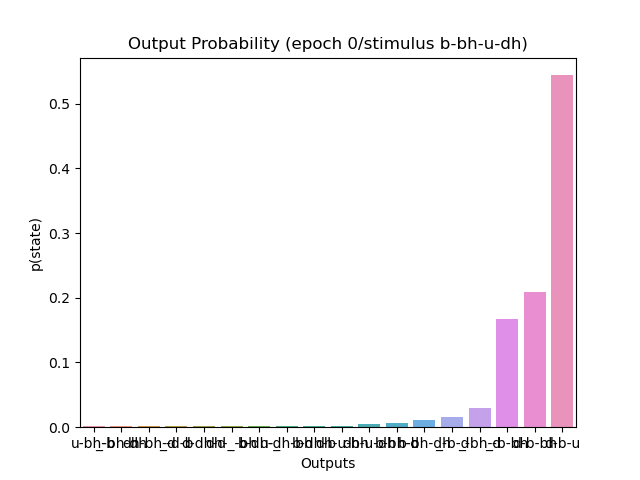
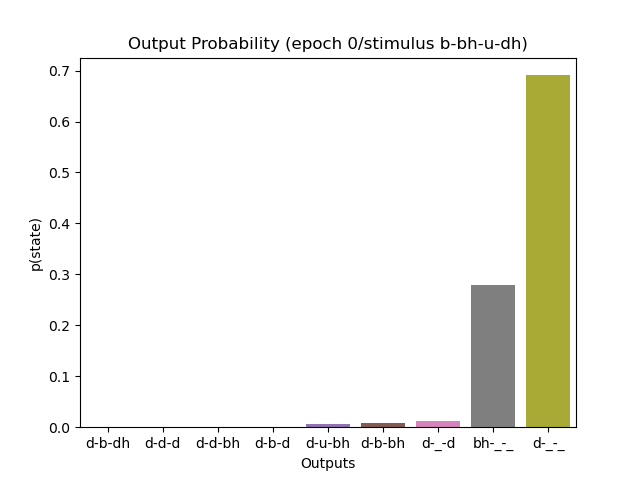
states initialization re-ordered

diff --git a/src/gsc/gsc_network.py b/src/gsc/gsc_network.py
@@ -80,7 +80,7 @@ class Net(object):
         self.settings['T_init'] = 1e-6
         self.settings["TMin"] = 0
         self.settings["TdecayRate"] = 0.05
-        self.settings["lambdaInit"] = 1
+        self.settings["lambdaInit"] = 0.011387
         self.settings["lambdaMin"] = 0.01
         self.settings["lambdaDecayRate"] = 0.60
         self.settings["maxSteps"] = 300000
@@ -111,12 +111,12 @@ class Net(object):
         """
         self.vars = dict()
         # Temperature params
-        self.vars['T_init'] = 1e-4
+        self.vars['T_init'] = -1
         self.vars['T_min'] = 0.0
-        self.vars['T_decay_rate'] = 1e-2
+        self.vars['T_decay_rate'] = 0.05
         self.vars['lambda_min'] = 0.0001
         # Bowl params
-        self.vars['q_init'] = 16  # initial strength for the bowl
+        self.vars['q_init'] = 16.58  # initial strength for the bowl
         self.vars['q_max'] = 150.
         #self.vars['q_rate'] = 10.
         # Check if we can improve learning, adjusting this value
@@ -214,31 +214,21 @@ class Net(object):
         self._set_bias()
         # self.debug_copies()
 
-        # States and Inputs for the RNN-like network
-        self.stateC = torch.zeros(self.nSym, dtype=torch.double)
-        self.stateC_prev = torch.zeros(self.nSym, dtype=torch.double)
-        self.state = self.toNeural()
-        self.state_prev = self.toNeural(matrix=self.stateC_prev)
-
-        # Initialize vectors for the external input
-        self.inpC = torch.zeros(self.nSym, dtype=torch.double)
-        self.inpC_prev = torch.zeros(self.nSym, dtype=torch.double)
-        self.inpS = self.toNeural(self.inpC)
-        self.inpS_prev = self.toNeural(self.inpC_prev)
-
-        # Bowl
-        # Calculate the weights and biases for the Bowl:
+        # Initialize Bowl
+        self.bowl = Bowl(self)
+        # Initialize bowl parameters
         self._bowl_params()
-        self.Bowl_bC, self.Bowl_bS = self.bowl.set_biases()
-        self.Bowl_WC, self.Bowl_WS = self.bowl.set_weights()
 
         # Calculate the recommended Lambda and Temp values:
-        self.check_Q_T_lambda()
+        self.check_T_lambda()
 
-        # Add the bowl weights to the Harmoniy weights
+        # Calculate the weights and biases for the Bowl:
+        self.Bowl_bC, self.Bowl_bS = self.bowl.set_biases()
+        self.Bowl_WC, self.Bowl_WS = self.bowl.set_weights()
+        # Add the bowl weights to the Harmony weights
         self.merge_bowl()
 
-        # Initialize states
+        # Initialize activation states and external inputs
         self.initialize_state()
         self.create_result_states()
 
@@ -366,13 +356,12 @@ class Net(object):
             zeta : the neural version of the center of the bowl
 
         """
-        self.bowl = Bowl(self)
-        self.vars['bowl_strength'] = self.vars['q_init'] = self.bowl.strength + \
-            self.vars['beta_min_offset']
+        self.vars['bowl_strength'] = self.bowl.strength + self.vars['beta_min_offset']
+        self.vars['q_init'] = self.vars['bowl_strength']
         if self.vars['bowl_strength'] <= self.vars['beta_min_offset']:
             print(
                 f"Bowl overflow -- Set to the minimum value :  {self.vars['beta_min_offset']}")
-            # aise ValueError("Bowl overflow... strength lower than set tolerance. Modify the tolerance or fix the bug!")
+            # raise ValueError("Bowl overflow... strength lower than set tolerance. Modify the tolerance or fix the bug!")
             self.vars['bowl_strength'] = self.vars['beta_min_offset']
         if self.vars['bowl_strength'] > self.vars['q_max']:
             self.vars['bowl_strength'] = self.vars['q_max']
@@ -509,7 +498,7 @@ class Net(object):
 
     # ------------------RECOMMENDED VALUES FOR Q, L, T ------------------------------------
 
-    def check_Q_T_lambda(self):
+    def check_T_lambda(self):
         """Check the bowl parameters."""
         # Substituted with Bowl.recommend_strength()
         # self.vars['q_rec'], self.vars['q_rec_nd'] = self.recommend_Q()
@@ -530,8 +519,8 @@ class Net(object):
         else:
             self.vars['lambdaInit'] = self.settings["lambdaInit"]
 
+        # Check Temperature
         self.vars['T_rec'] = self.recommend_T()
-        # Check Temperatures
         if abs(self.vars['T_init'] - self.vars['T_rec']) > 1e-07:  # 1e-7 tolerance
             print(
                 f"T RECOMMENDED: {self.vars['T_rec']}, ACTUAL T = {self.vars['T_init']}")
@@ -564,16 +553,19 @@ class Net(object):
 
         """
         max_eigvalue = torch.max(torch.linalg.eigvalsh(self.Wc))
-        T = (self.settings["tgtStd"] ** 2) * \
-            (self.vars['bowl_strength'] - max_eigvalue)
+        T = (self.settings["tgtStd"] ** 2) * (self.vars['bowl_strength'] - max_eigvalue)
         return T
     # ---------------------- STATES AND INPUTS --------------------
 
     def initialize_state(self):
         """Initialize network states and load external inputs"""
-        self.state = self.initializer((self.nSym, 1))
-        self.inpS = self.initializer((self.nSym, 1))
+        # Initialize everything to zero
+        self.stateC = self.initializer((self.nSym, 1))
+        self.stateC_prev = self.initializer((self.nSym, 1))
+        self.state = self.toNeural(self.stateC)
+        self.state_prev = self.toNeural(matrix=self.stateC_prev)
         self.inpC = self.initializer((self.nSym, 1))
+        self.inpS = self.toNeural(self.inpC)
 
         # Create full traces
         self.create_full_traces()
@@ -581,7 +573,7 @@ class Net(object):
         # Initialize Lotka Volterra
         self.LV_Matrices()
 
-        # Initialize Temperature and Lambda
+        # Allocate Temperature and Lambda
         self.vars['T'] = 0
         self.vars['lambda'] = 0
 
@@ -865,6 +857,7 @@ class Net(object):
         # Create the representations for the stimulus
         stimulus = fortran_reshape(
             stimulus, (torch.numel(stimulus), 1)).double()
+        # TPR representation of the external input
         self.inpS = self.TP.matmul(stimulus)
         self.inpC = self.TP.T.matmul(self.inpS)
 
@@ -881,7 +874,7 @@ class Net(object):
         self.inpC = self.inpC.double()
 
         # Initialize state
-        self.initial_state = self.settings['initStateMean'] * torch.rand(
+        self.initial_state = self.settings['initStateMean'] + torch.rand(
             (self.grammar.nF, self.grammar.nR)) * self.settings["initStateStdev"]
         self.initial_state = self.initial_state.double()
         self.state = self.toNeural(self.initial_state)

diff --git a/main.py b/main.py
@@ -4,7 +4,7 @@ from src.classes.Grammar import Grammar
 from src.gsc.gsc_network import Net
 import torch
 # Set seed for reproducibility
-torch.manual_seed(122)
+torch.manual_seed(123)
 
 # ---------------------------------------
 #       GRAMMAR AND CONSTRAINTS
@@ -26,7 +26,7 @@ G = Grammar(fillers, roles, emtpyFiller="_")
 
 # Single Harmony constraints
 # This is a matrix (nF, nR)
-cons = [("u/s2", .5), ("b/s1", .75)]
+cons = [("b/s1", 2), ("bh/s1", 2), ("u/s2", 5), ("d/s3", 2), ("dh/s3", 5)]
 G.update_Hc(cons)
 """
 
@@ -42,12 +42,12 @@ G.update_Hcc(cons)
 #           GSC NET
 # ---------------------------------------
 
-custom_settings = {"epochs": 2,
-                   "tgtStd": 1e-3,
-                   "emaFactor": 9e-2,
-                   "emaSpeedTol": 9e-5,
-                   "dt": 5e-3,
-                   "T_decay_rate": 1.25e-3,
+custom_settings = {"epochs": 5,
+                   "tgtStd": 0.00125,
+                   "emaFactor": 0.05,
+                   "emaSpeedTol": 0.002,
+                   "dt": 1e-4,
+                   "T_decay_rate": 0.05,
                    "maxSteps": 3000,
                    "printInterval": 1000}
 # Initialize

diff --git a/src/classes/Bowl.py b/src/classes/Bowl.py
@@ -12,10 +12,11 @@ class Bowl(object):
         self.Net = GSCNet
         self.center = self.Net.vars['bowl_center'] * \
             torch.ones(self.Net.nSym, dtype=torch.double)
-        self.strength = self.recommend_strength()  # Python version
-        #self.strength = self.recommended_strength_Matlab()
-        print(
-            f"recommended pyton: {self.recommend_strength()}\nRecommended Matlab: {self.strength}")
+        self.strength = self.recommended_strength_Matlab()
+        # Alternative: this here depends on the external input. If you want to reuse this, you should
+        # change the order in which variables are initialized.
+        # self.strength = self.recommend_strength()  # Python version
+
 
     def recommend_strength(self):
         """Calculate the recommended strength for the Bowl.

diff --git a/src/classes/utilFunc.py b/src/classes/utilFunc.py
@@ -16,8 +16,8 @@ def fortran_reshape(array, shape):
     I've opened an issue on pytorch/pytorch, waiting for the devs
     to support the fortran order in Pytorch
     """
-    array = array.numpy().flatten()
-    #array = array.numpy()
+    #array = array.numpy().flatten()
+    array = array.numpy()
     array = array.reshape(shape, order="F")
     return torch.tensor(array)
 
